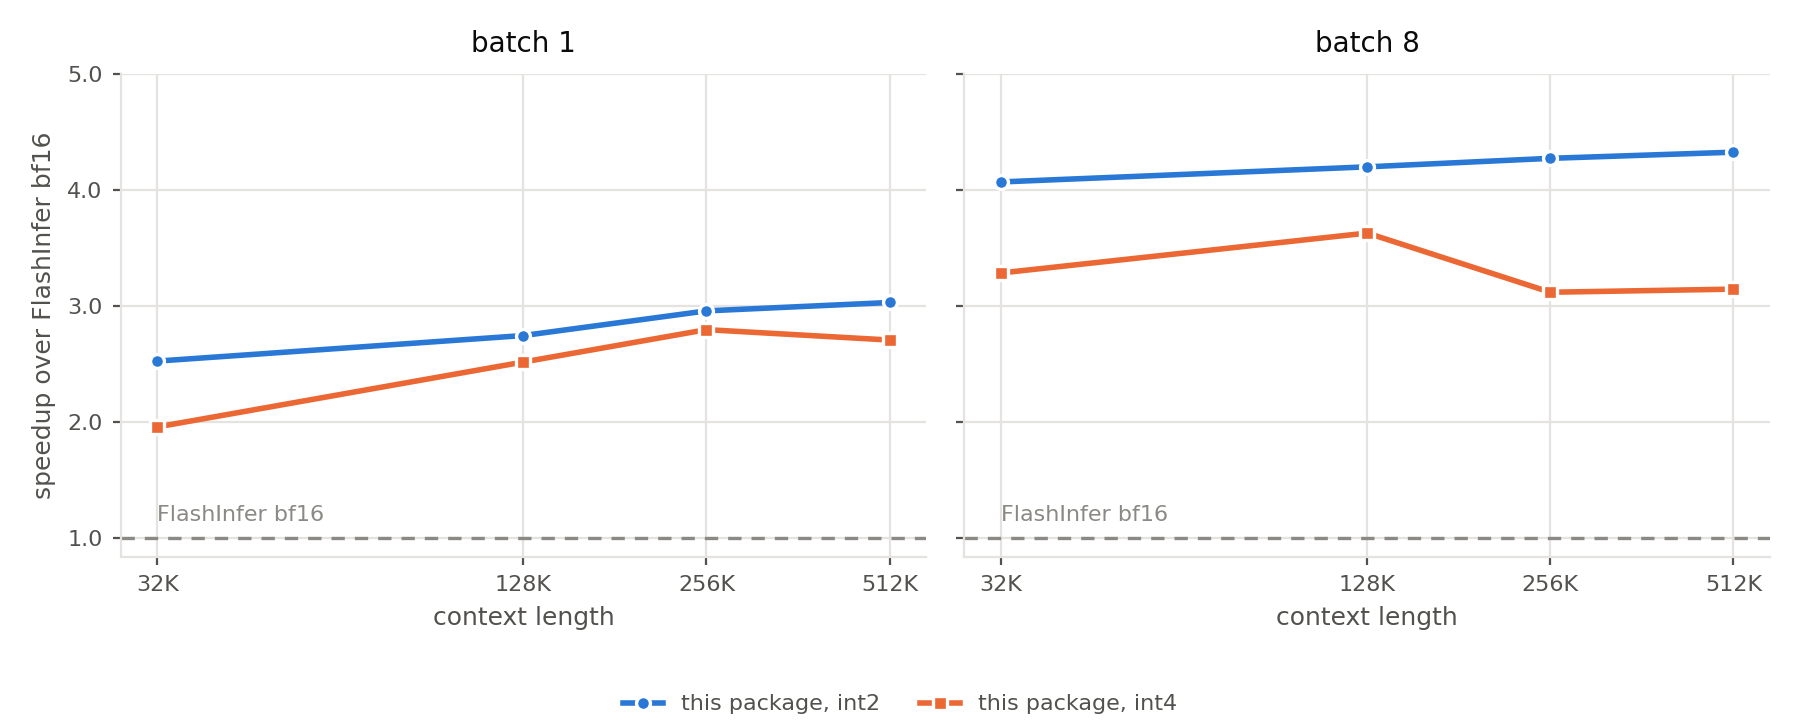
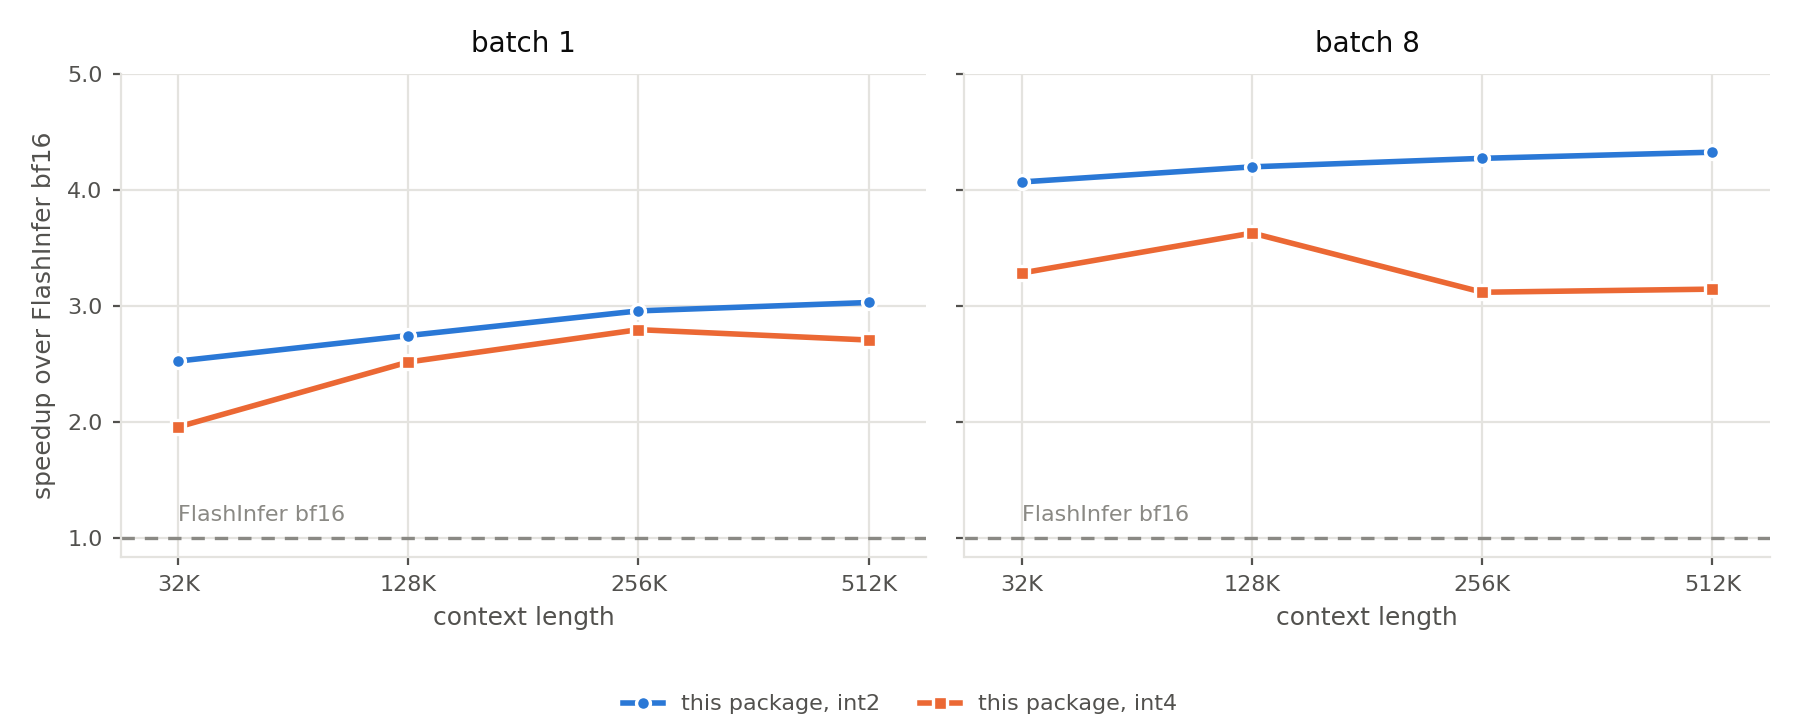
Space the context ticks evenly
The x axis was log-scaled, so 32K to 128K took twice the width of 128K to 256K
and the left third of each panel was empty. The four context lengths are now
placed at even intervals with their values as labels.

diff --git a/benchmarks/plot_decode.py b/benchmarks/plot_decode.py
@@ -1,7 +1,8 @@
 """Render the decode-speedup figures from `decode_latency.csv`.
 
-One figure per GPU, each with two panels, one per batch size, and context length
-on a log axis. The y axis is the speedup over FlashInfer bf16 at the same shape,
+One figure per GPU, each with two panels, one per batch size. Context lengths are
+placed at even spacing rather than by value, so the four points read at the same
+interval. The y axis is the speedup over FlashInfer bf16 at the same shape,
 which is bf16's latency divided by the kernel's, so the dashed line at 1.00 is
 bf16 and higher is better. The latencies themselves are in the README tables.
 
@@ -58,23 +59,23 @@ def render(gpu, out):
         ax.set_facecolor("#ffffff")
         for key, label, color, marker in present:
             xs, ys = [], []
-            for kv in kv_lens:
+            for i, kv in enumerate(kv_lens):
                 base = us(gpu, BASE, batch, kv)
                 val = us(gpu, key, batch, kv)
                 if base and val:
-                    xs.append(kv)
+                    xs.append(i)
                     ys.append(base / val)
             ax.plot(xs, ys, color=color, linewidth=2, marker=marker, markersize=5,
                     markeredgecolor="#ffffff", markeredgewidth=1.2, label=label,
                     zorder=3)
 
         ax.axhline(1.0, color=REF, linewidth=1.2, linestyle=(0, (4, 3)), zorder=2)
-        ax.annotate("FlashInfer bf16", xy=(kv_lens[0], 1.0), xytext=(0, 6),
+        ax.annotate("FlashInfer bf16", xy=(0, 1.0), xytext=(0, 6),
                     textcoords="offset points", color=REF, fontsize=8, zorder=4)
 
-        ax.set_xscale("log", base=2)
-        ax.set_xticks(kv_lens)
+        ax.set_xticks(range(len(kv_lens)))
         ax.set_xticklabels([f"{kv // 1024}K" for kv in kv_lens])
+        ax.set_xlim(-0.25, len(kv_lens) - 0.75)
         ax.set_yticks([1.0, 2.0, 3.0, 4.0, 5.0])
         ax.set_yticklabels(["1.0", "2.0", "3.0", "4.0", "5.0"])
         ax.minorticks_off()
